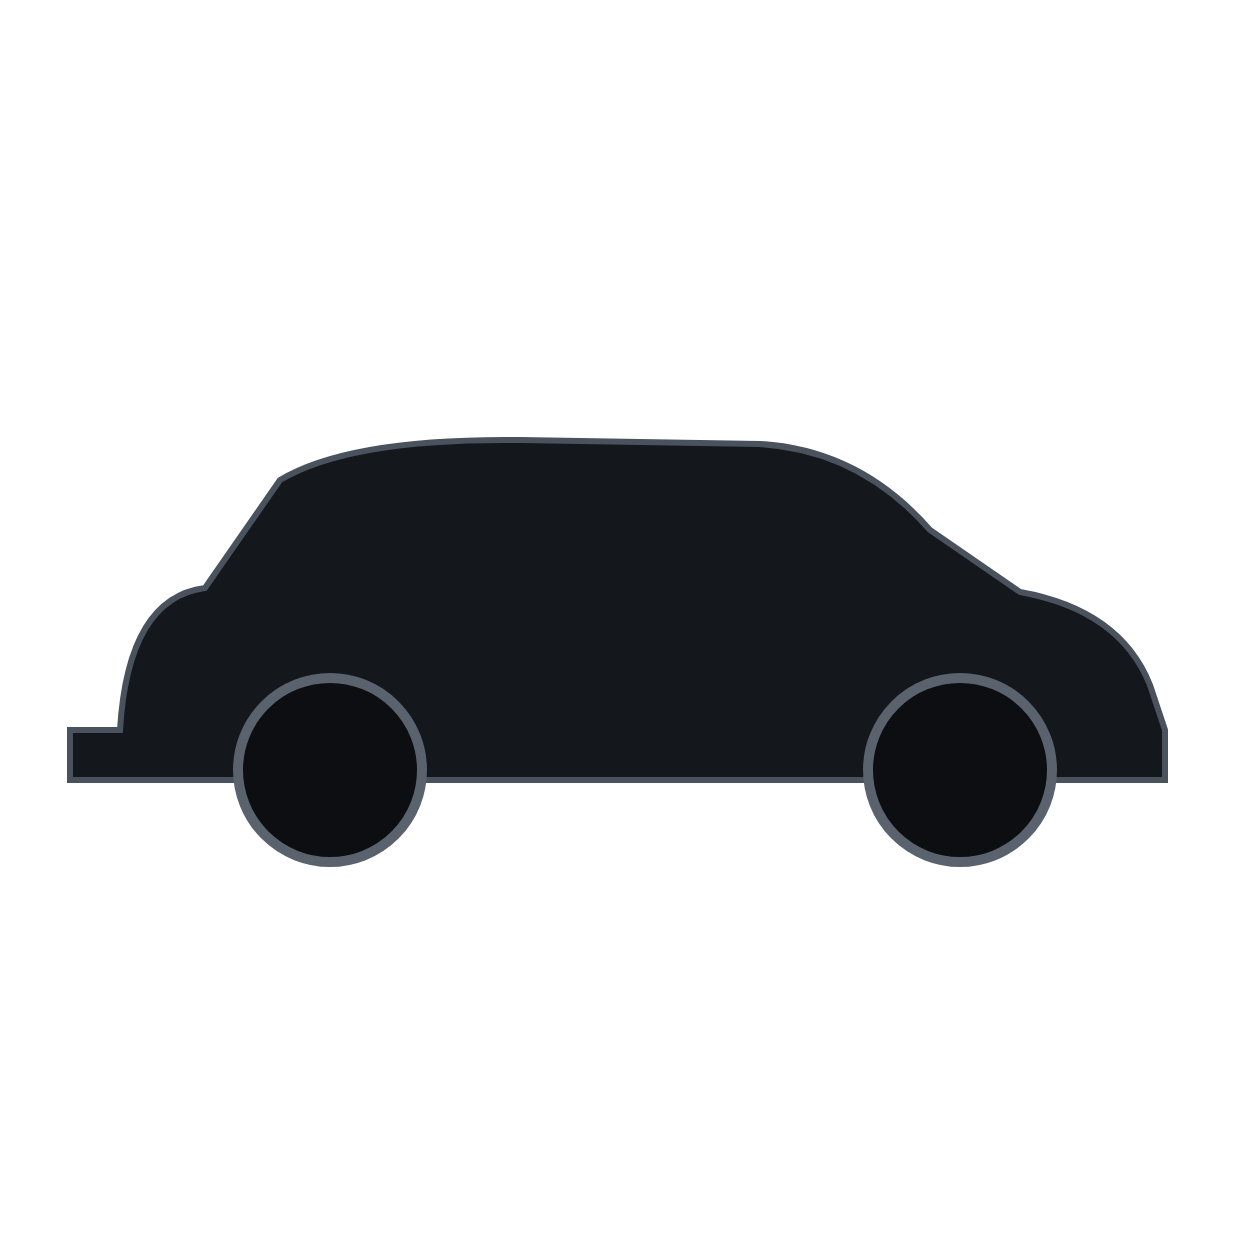
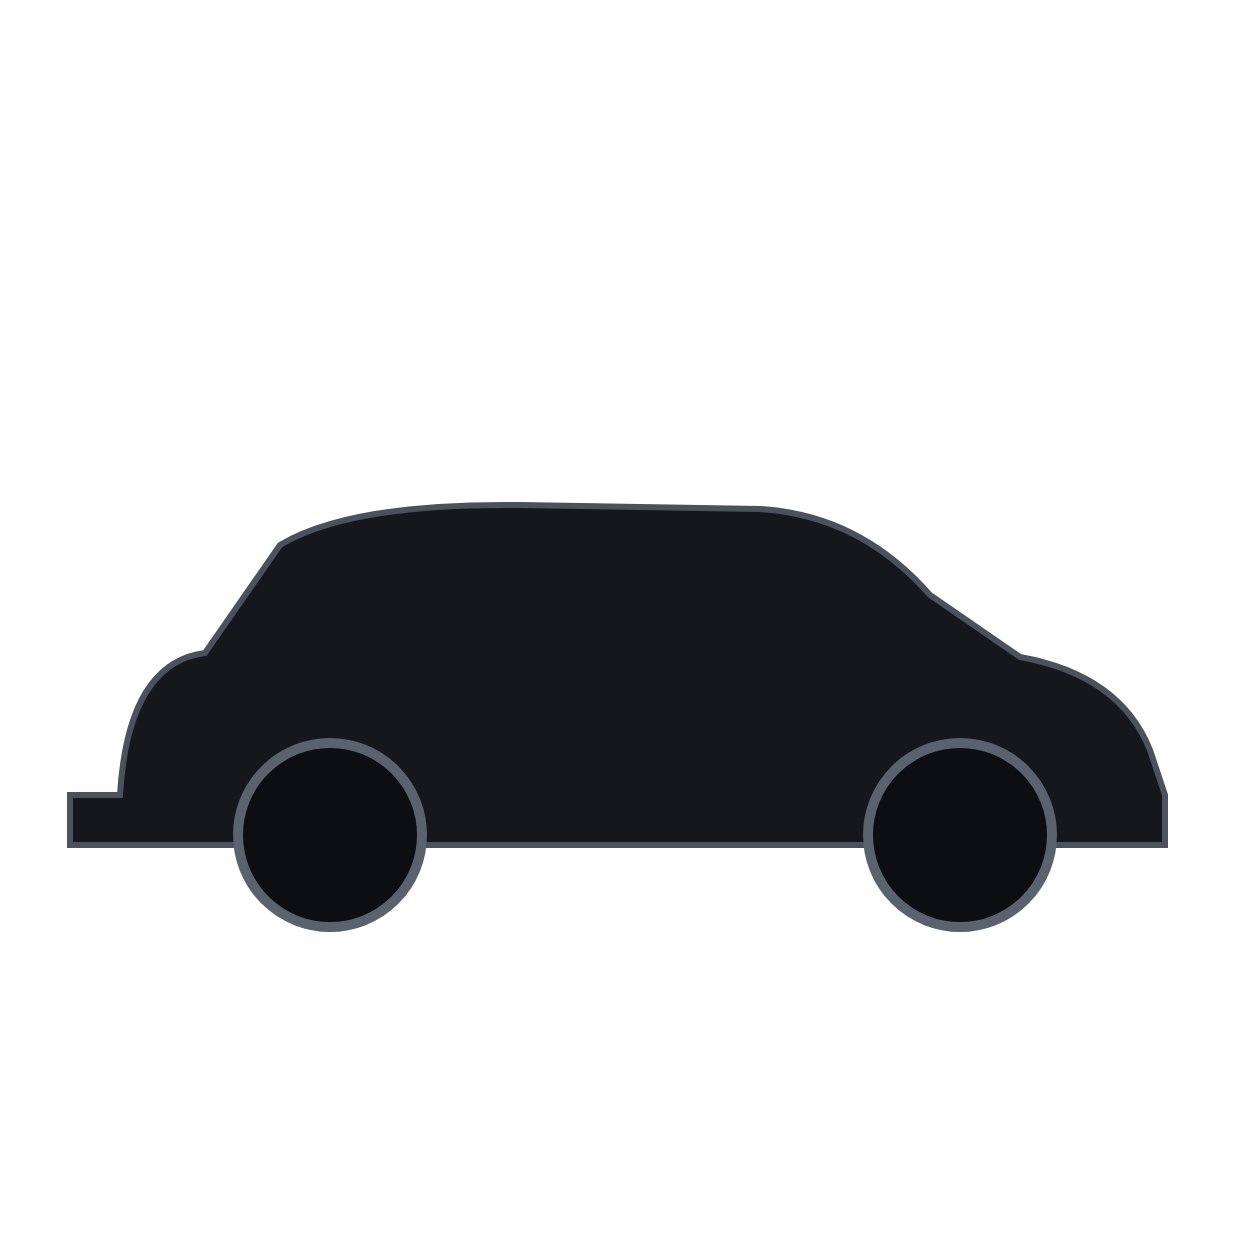
Frame the car, not the empty canvas around it
The fleet shots are square: 1280x1280, car centred, air above and below.
Fitting that whole square into a 78x46 slot with `contain` scales it to the
46px height, so the car lands about 46px wide inside a 78px box — a stamp
with margins, when the box was sized for a car.

`cover` crops to the box instead. The bands it eats are the empty ones, and
the car comes out full width. The framing rule that makes that safe is
already written down in public/fleet/README.md; the placeholders are
regenerated to sit in the frame the real photos will.

Claude-Session: https://claude.ai/code/session_011rXqxRhUQR5LvHyF3pprsK

Changed region(s): [[0.0306, 0.3371, 0.95, 0.7661]]

diff --git a/src/styles/globals.css b/src/styles/globals.css
@@ -751,7 +751,12 @@ h2.sec em{font-style:italic;}
 /* the car's portrait — cut-out PNG, no plate behind it. Fixed box so all
    four rows line their names up whatever the shot's aspect ratio is. */
 .vopt .vthumb{flex:none;width:78px;height:46px;display:flex;align-items:center;justify-content:center;}
-.vopt .vthumb img{max-width:100%;max-height:100%;object-fit:contain;display:block;
+/* The shots are square canvases with the car centred and air above and
+   below it. `contain` would fit that whole square into a 46px-tall box and
+   leave a car the size of a stamp, so cover it instead: the crop eats the
+   empty bands, not the car. README.md in public/fleet holds the framing up
+   its end. */
+.vopt .vthumb img{width:100%;height:100%;object-fit:cover;object-position:center;display:block;
   filter:drop-shadow(0 5px 10px rgba(0,0,0,.5));transition:transform .3s var(--ease);}
 .vopt:hover:not(.unfit) .vthumb img{transform:scale(1.05);}
 .vopt.unfit .vthumb img{filter:grayscale(1);}
